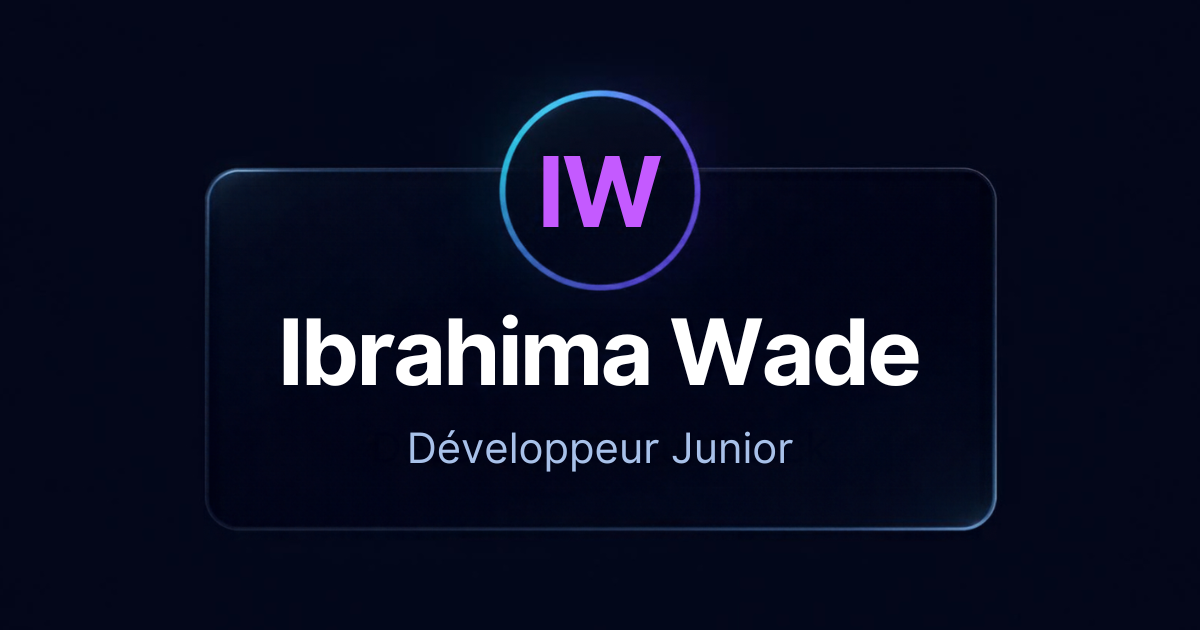
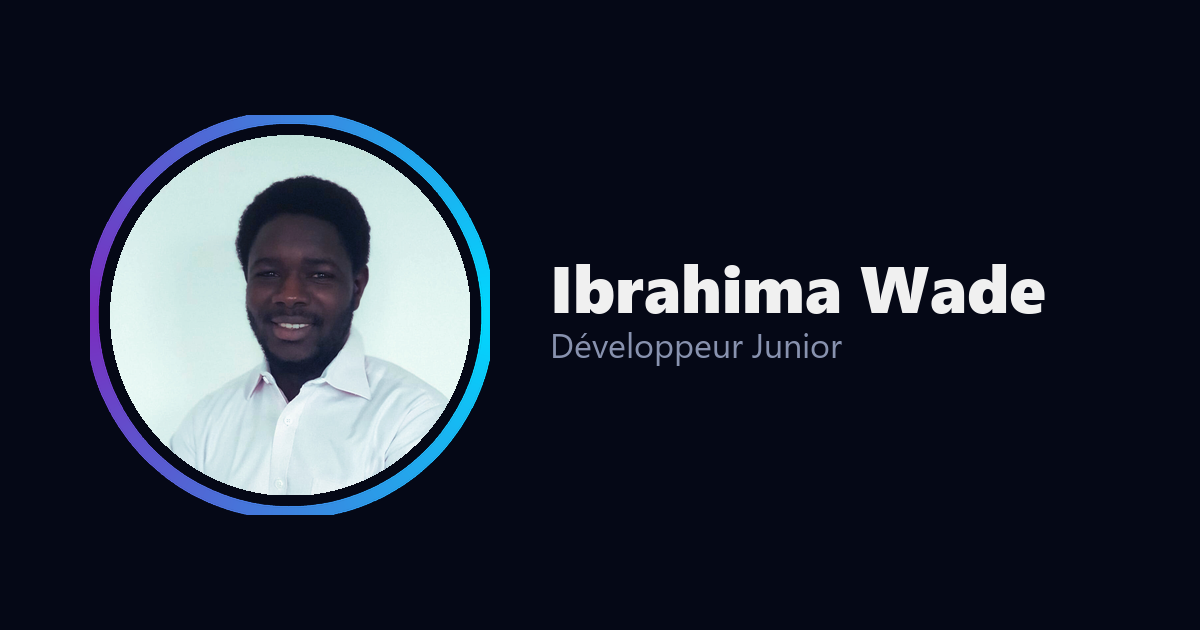
feat: og:image v2 avec vraie photo + retrait du nom FullstackForge
- assets/og-image.png regenere : compose entierement en local avec
  Pillow (pas Canva) - vraie photo (assets/image111.png, recadree en
  cercle top-aligned comme le hero du site) entouree d'un anneau
  degrade cyan->violet dessine par interpolation d'angle, + texte
  "Ibrahima Wade" / "Developpeur Junior" (Segoe UI Bold/Regular, pas
  de police Poppins disponible localement). Balises og:image deja en
  place sur les 5 pages, seul le fichier change
- includes/footer.html : "FullstackForge" retire du nom affiche
  ("© 2026 Ibrahima Wade" au lieu de "© 2025 Ibrahima Wade -
  FullstackForge") - recommandation donnee sur demande d'Ibrahima,
  coherent avec le passage a "Developpeur Junior". Annee du copyright
  corrigee au passage (2025 etait perime)

Teste : build sans erreur, aucune trace de "FullstackForge" dans le
contenu affiche, og-image.png servi correctement en local, aucune
cle i18n manquante.

Changed region(s): [[0.0617, 0.181, 0.8942, 0.8444], [0.4317, 0.1206, 0.555, 0.2111], [0.74, 0.2413, 0.8017, 0.2714]]

diff --git a/docs.html b/docs.html
@@ -105,7 +105,7 @@
           <img src="./assets/github.png" alt="GitHub" />
         </a>
       </div>
-      <p class="footer-copy">© 2025 Ibrahima Wade — FullstackForge</p>
+      <p class="footer-copy">© 2026 Ibrahima Wade</p>
     </div>
   </footer>
 

diff --git a/index.html b/index.html
@@ -530,7 +530,7 @@
           <img src="./assets/github.png" alt="GitHub" />
         </a>
       </div>
-      <p class="footer-copy">© 2025 Ibrahima Wade — FullstackForge</p>
+      <p class="footer-copy">© 2026 Ibrahima Wade</p>
     </div>
   </footer>
 

diff --git a/project.html b/project.html
@@ -147,7 +147,7 @@
           <img src="./assets/github.png" alt="GitHub" />
         </a>
       </div>
-      <p class="footer-copy">© 2025 Ibrahima Wade — FullstackForge</p>
+      <p class="footer-copy">© 2026 Ibrahima Wade</p>
     </div>
   </footer>
 

diff --git a/projects.html b/projects.html
@@ -102,7 +102,7 @@
           <img src="./assets/github.png" alt="GitHub" />
         </a>
       </div>
-      <p class="footer-copy">© 2025 Ibrahima Wade — FullstackForge</p>
+      <p class="footer-copy">© 2026 Ibrahima Wade</p>
     </div>
   </footer>
 

diff --git a/veille.html b/veille.html
@@ -109,7 +109,7 @@
           <img src="./assets/github.png" alt="GitHub" />
         </a>
       </div>
-      <p class="footer-copy">© 2025 Ibrahima Wade — FullstackForge</p>
+      <p class="footer-copy">© 2026 Ibrahima Wade</p>
     </div>
   </footer>
 

diff --git a/includes/footer.html b/includes/footer.html
@@ -19,6 +19,6 @@
           <img src="./assets/github.png" alt="GitHub" />
         </a>
       </div>
-      <p class="footer-copy">© 2025 Ibrahima Wade — FullstackForge</p>
+      <p class="footer-copy">© 2026 Ibrahima Wade</p>
     </div>
   </footer>

diff --git a/TASKS.md b/TASKS.md
@@ -70,7 +70,8 @@ Prochaine étape : Phase 4 (déploiement Netlify), voir ci-dessous.
 | 20 | sitemap.xml + robots.txt | 2026-09-23 | `sitemap.xml` généré par `build.js` à partir de `data/projects.json` (reste synchronisé automatiquement si un projet est ajouté/retiré) — 6 URLs (index, projects, docs, 3 pages projet). `robots.txt` statique à la racine, référence le sitemap |
 | 28 | Automatiser la routine "Veille technique quotidienne" pour qu'elle publie sur `data/veille.json` | 2026-09-23 | `sources` (repo GitHub) + prompt étendu ajoutés à la routine (`trig_01Q7ib5zeriLK321aLeF69S9`) via le connecteur MCP `schedule`. 1er test : push refusé (403, app GitHub Claude pas autorisée sur le repo) — corrigé par Ibrahima via claude.ai/connect-github. 2e test réussi : commit + push automatique (`1039563`), contenu vérifié propre (factuel, aucune mention personnelle). Prochain déclenchement auto : 07:12 Paris chaque matin |
 | 27 | Traduire le contenu des projets en EN/ES | 2026-09-23 | Sur demande d'Ibrahima (pas via un locuteur natif comme prévu initialement — traduction faite par moi, à faire relire si souhaité). `data/projects.json` restructuré : `title`/`description`/`technical`/`caseStudy.*` sont maintenant des objets `{fr, en, es}` (titre "Jeux de Dame" localisé en "Checkers Game"/"Juego de Damas", les autres titres restent identiques, ce sont des noms propres). `js/projects.js` expose `pickLocale(field, lang)` (repli sur `fr` si une langue manque). `i18n.js` orchestre le re-rendu : `renderProjects`/`initProjectDetail`/`initDocsList` sont maintenant appelés à chaque `changeLanguage()`, pas juste au chargement — aucune dépendance circulaire (`i18n.js` → `project-detail.js`/`docs.js` → `projects.js`, jamais l'inverse) |
-| 21 | og:image custom | 2026-09-23 | Générée via le connecteur Canva (`create-design`) : fond sombre du thème, badge "IW" (dégradé cyan/violet), nom + poste, texte + logo uniquement (pas de photo). 1er essai en carré (1080×1080, le format "Custom size" n'a pas été interprété) — corrigé en régénérant avec le format nommé "YouTube Thumbnail" (1280×720, 16:9). Export impossible via le connecteur (`Not allowed to access design`, 3 tentatives) — téléchargée manuellement par Ibrahima depuis Canva, puis recadrée en local avec Pillow (centre, sans déformation) au format standard **1200×630**. Une seule image pour tout le site (pas une par page). Ajoutée dans `assets/og-image.png` + balises `og:image`/`og:image:width`/`og:image:height`/`twitter:image` sur les 5 pages |
+| 21 | og:image custom | 2026-09-23 | **v1** (texte + logo, sans photo) générée via le connecteur Canva (`create-design`), export manuel par Ibrahima suite à un refus d'accès du connecteur (`Not allowed to access design`, 3 tentatives), recadrée en local avec Pillow au format standard **1200×630**. **v2** (le jour même, sur demande d'Ibrahima) : composée entièrement en local avec Pillow plutôt que de repartir sur Canva — vraie photo (`assets/image111.png`, recadrée en cercle comme le hero du site) entourée d'un anneau dégradé cyan→violet dessiné par calcul d'angle (pas de police Poppins disponible localement, utilisé Segoe UI Bold/Regular en remplacement). Une seule image pour tout le site. Balises `og:image`/`og:image:width`/`og:image:height`/`twitter:image` sur les 5 pages (inchangées, seul le fichier a changé) |
+| — | Nom affiché "FullstackForge" retiré, remplacé par "Ibrahima Wade" seul | 2026-09-23 | Recommandation explicite donnée sur demande d'Ibrahima ("à ton avis") : un nom de marque/projet ne colle pas à un portfolio perso, surtout après le passage à "Développeur Junior". Footer (`includes/footer.html`) mis à jour, année du copyright corrigée au passage (2025 → 2026). `manifest.json` disait déjà "Ibrahima Wade", rien à changer là |
 | — | Poste passé de "Développeur Full Stack" à "Développeur Junior" sur tout le site | 2026-09-23 | L'image générée par Ibrahima disait "Développeur Junior", en décalage avec le reste du site — il a choisi d'harmoniser tout le site sur "Junior" plutôt que de changer l'image. Remplacé : `<title>`, meta description/og/twitter des 5 pages, JSON-LD (`jobTitle`), `typing` FR/EN/ES dans `i18n/*.json`. Hash CSP du JSON-LD à recalculer après déploiement (contenu changé) |
 | 22 | Créer `pages/now.html` + lien "Now" dans navbar/footer | 2026-09-23 | Contenu réel (apprentissages, projets en cours hors série YouTube, certifications visées) fourni par Ibrahima à partir de `context.md`/`history.md`, validé avant rédaction. **Remplacée le jour même** (voir tâche suivante) : Ibrahima ne voulait plus exposer ses idées de projet publiquement |
 | — | `now.html` → `veille.html` (page "Now" remplacée par une page de veille technologique) | 2026-09-23 | Sur demande explicite d'Ibrahima : les infos "projets en cours" (dont l'idée SaaS PME) exposaient trop. Nouvelle page qui affiche `data/veille.json` (vide pour l'instant) via `js/veille.js` — pensée pour être alimentée par la routine cloud "Veille technique quotidienne" existante (`trig_01Q7ib5zeriLK321aLeF69S9`, cron 07:00 Paris), qu'il faut encore modifier pour qu'elle écrive et push dans ce repo (tâche #28, automatisation choisie explicitement par Ibrahima malgré l'absence de relecture avant publication) |

diff --git a/PROJECT_CONTEXT.md b/PROJECT_CONTEXT.md
@@ -156,6 +156,8 @@ portfolio-fullstackforge/
 | 2026-09-23 | og:image générée via le connecteur Canva plutôt qu'en CSS/HTML | Un visuel de partage social a besoin d'un rendu graphique fiable (dégradés, ombres, typographie précise) que composer en HTML+capture aurait été plus fragile à obtenir qu'un vrai outil de design. Une seule image pour tout le site (pas une par page) — décision d'effort/valeur assumée, cohérent avec §DESIGN_TASTE.md (identité déjà posée, pas de nouveau style) | — |
 | 2026-09-23 | Poste passé de "Développeur Full Stack" à "Développeur Junior" sur tout le site (titre, meta, JSON-LD, typing FR/EN/ES) | L'image og:image générée par Ibrahima disait "Développeur Junior" — décalage repéré avec le reste du site qui disait "Full Stack" partout. Question posée : harmoniser en gardant "Full Stack" (régénérer l'image) ou en gardant "Junior" (changer le site) — Ibrahima a choisi la 2de option. Cohérent avec `context.md` : il ne veut pas se présenter au-delà de son niveau réel | — |
 | 2026-09-23 | Service worker en **network-first** pour le HTML et les `.json` (pas cache-first partout) | `data/veille.json` change chaque matin via l'automatisation (#28) — un cache-first sur ce fichier aurait montré une veille périmée à un visiteur revenant sur le site après un précédent passage. Cache-first réservé au CSS/JS statique (ne change qu'au déploiement) | — |
+| 2026-09-23 | og:image v2 (avec photo) composée entièrement en local avec Pillow, pas via Canva | Repartir sur Canva pour insérer un placeholder photo à recaler ensuite aurait été fragile (position du placeholder inconnue sans inspection précise). Pillow donne un contrôle pixel-parfait et réutilise les couleurs exactes de la marque (`#00d9ff`/`#7b2cbf`/`#050816`) au lieu de laisser une IA de design réinterpréter la palette | — |
+| 2026-09-23 | Nom affiché "FullstackForge" retiré partout, remplacé par "Ibrahima Wade" seul (footer) | Recommandation tranchée donnée sur demande explicite d'Ibrahima ("à ton avis") : un nom de marque/projet ne colle pas à un portfolio personnel, surtout après le passage à "Développeur Junior" le même jour — cohérence de positionnement avec `context.md`. Année du copyright corrigée au passage (2025 → 2026, obsolète) | — |
 | 2026-09-23 | Le site Netlify n'est **pas créé via l'API/connecteur MCP** (`create-new-project`), la connexion GitHub↔Netlify se fait par Ibrahima dans le navigateur (Netlify UI → Import from GitHub) | Le compte Netlify existe déjà (vérifié via le connecteur : `site_count: 0`, `connect-git-provider` en attente dans l'onboarding), mais l'outil MCP de création de site n'accepte pas de repo Git en paramètre — créer un site "à vide" via l'API risquerait de laisser un site orphelin non lié au repo, séparé de celui qu'Ibrahima créerait ensuite correctement via l'UI. L'autorisation OAuth GitHub↔Netlify est de toute façon une action qui doit venir de lui | — |
 | 2026-09-23 | Formulaire de contact câblé pour Netlify Forms : `data-netlify="true"` + champ caché `form-name` + honeypot `bot-field` (recommandé par le contexte Netlify officiel), `js/contact.js` fait un vrai `fetch POST` vers `/` au lieu de simuler l'envoi avec un `setTimeout` | Le formulaire était visuellement fonctionnel mais n'envoyait rien nulle part depuis la V1 (problème connu listé dans l'audit). Ne marche réellement qu'une fois déployé sur Netlify (le formulaire est détecté au build) — testé en local : échec propre avec message d'erreur, pas de crash, cohérent avec l'absence de backend en local | — |
 | 2026-09-23 | Les 5 `style=""` inline restants (position navbar `140px`, wrapper honeypot) retirés et remplacés par des classes CSS (`.section-offset-top`, `.docs-intro`, `.visually-hidden`) | Permet un `Content-Security-Policy` sans `'unsafe-inline'` sur `style-src` dans `_headers` — CSP plus stricte | — |
